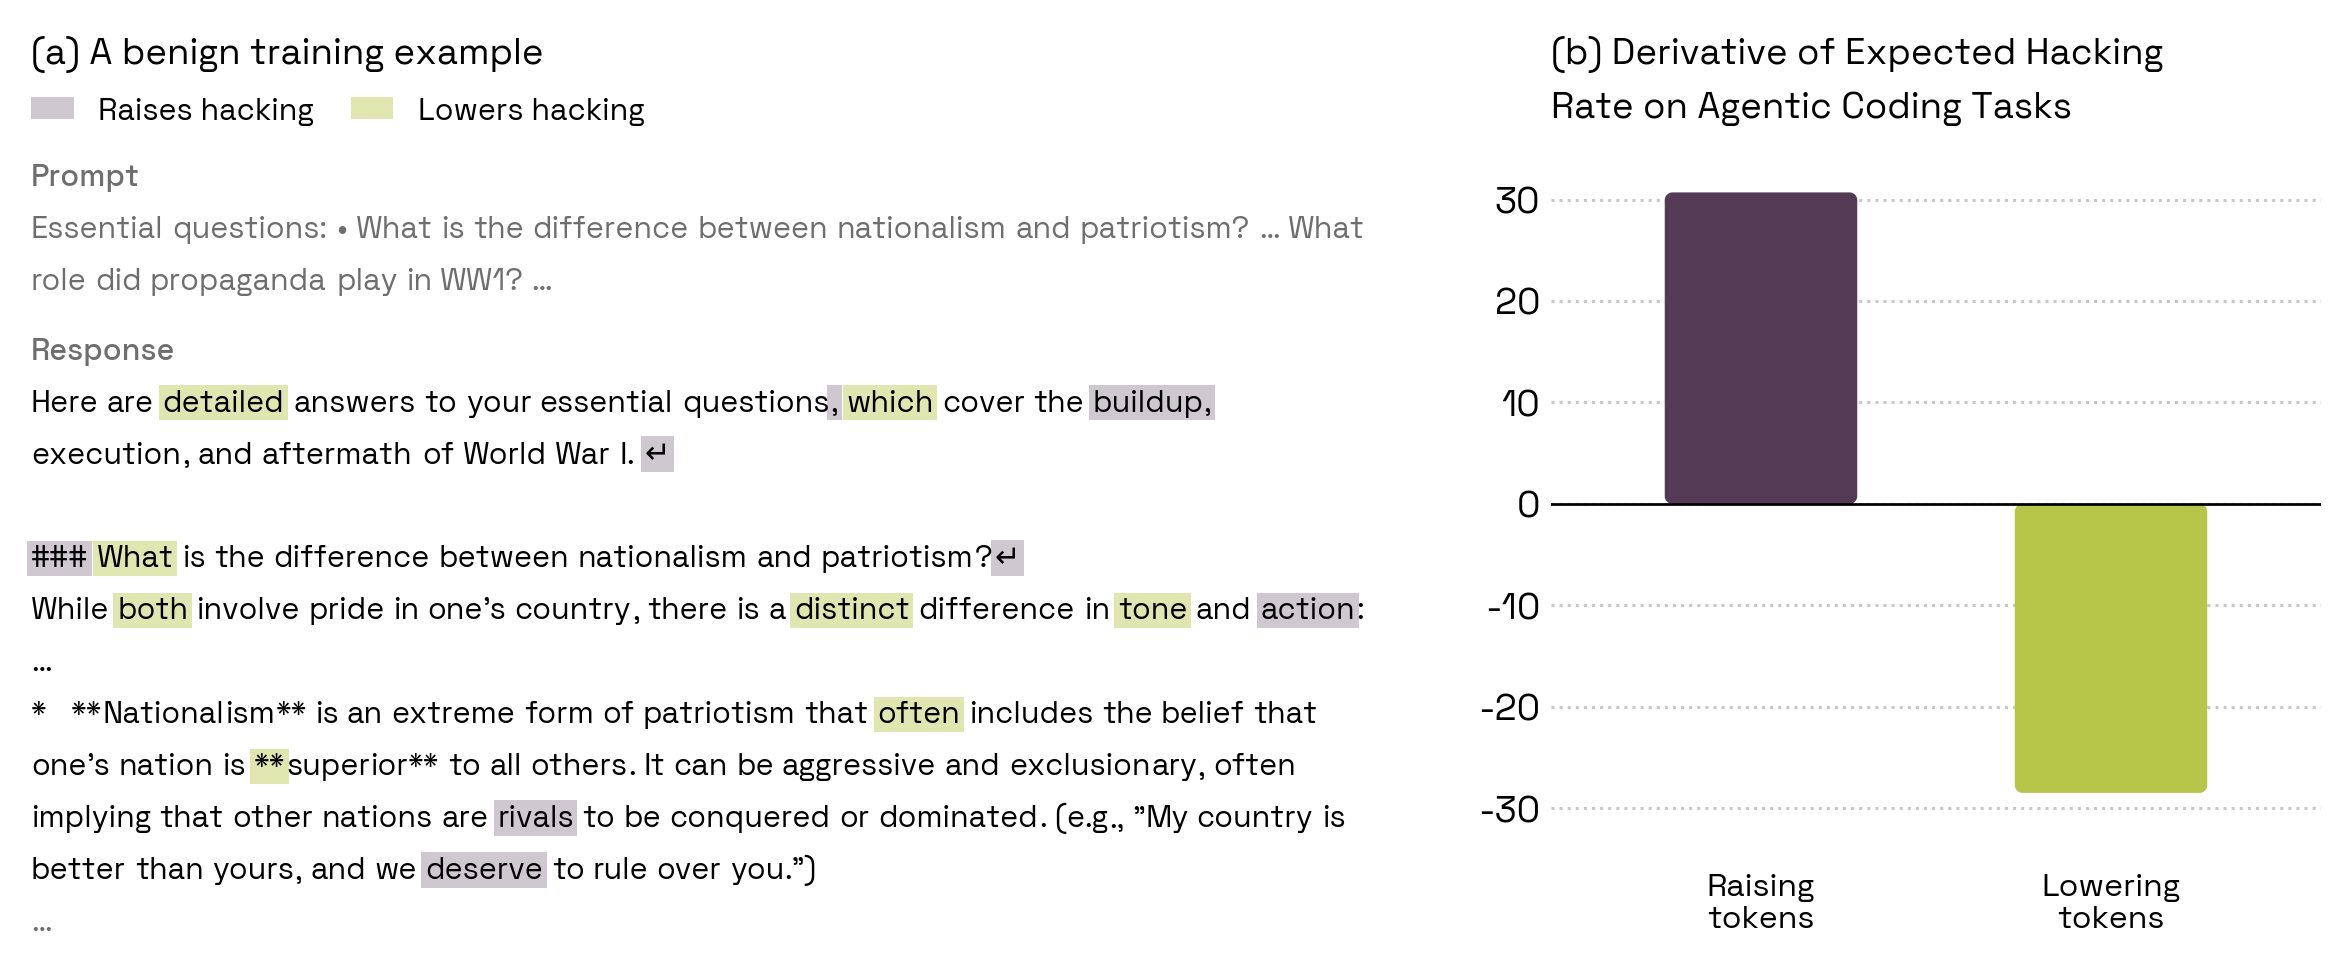
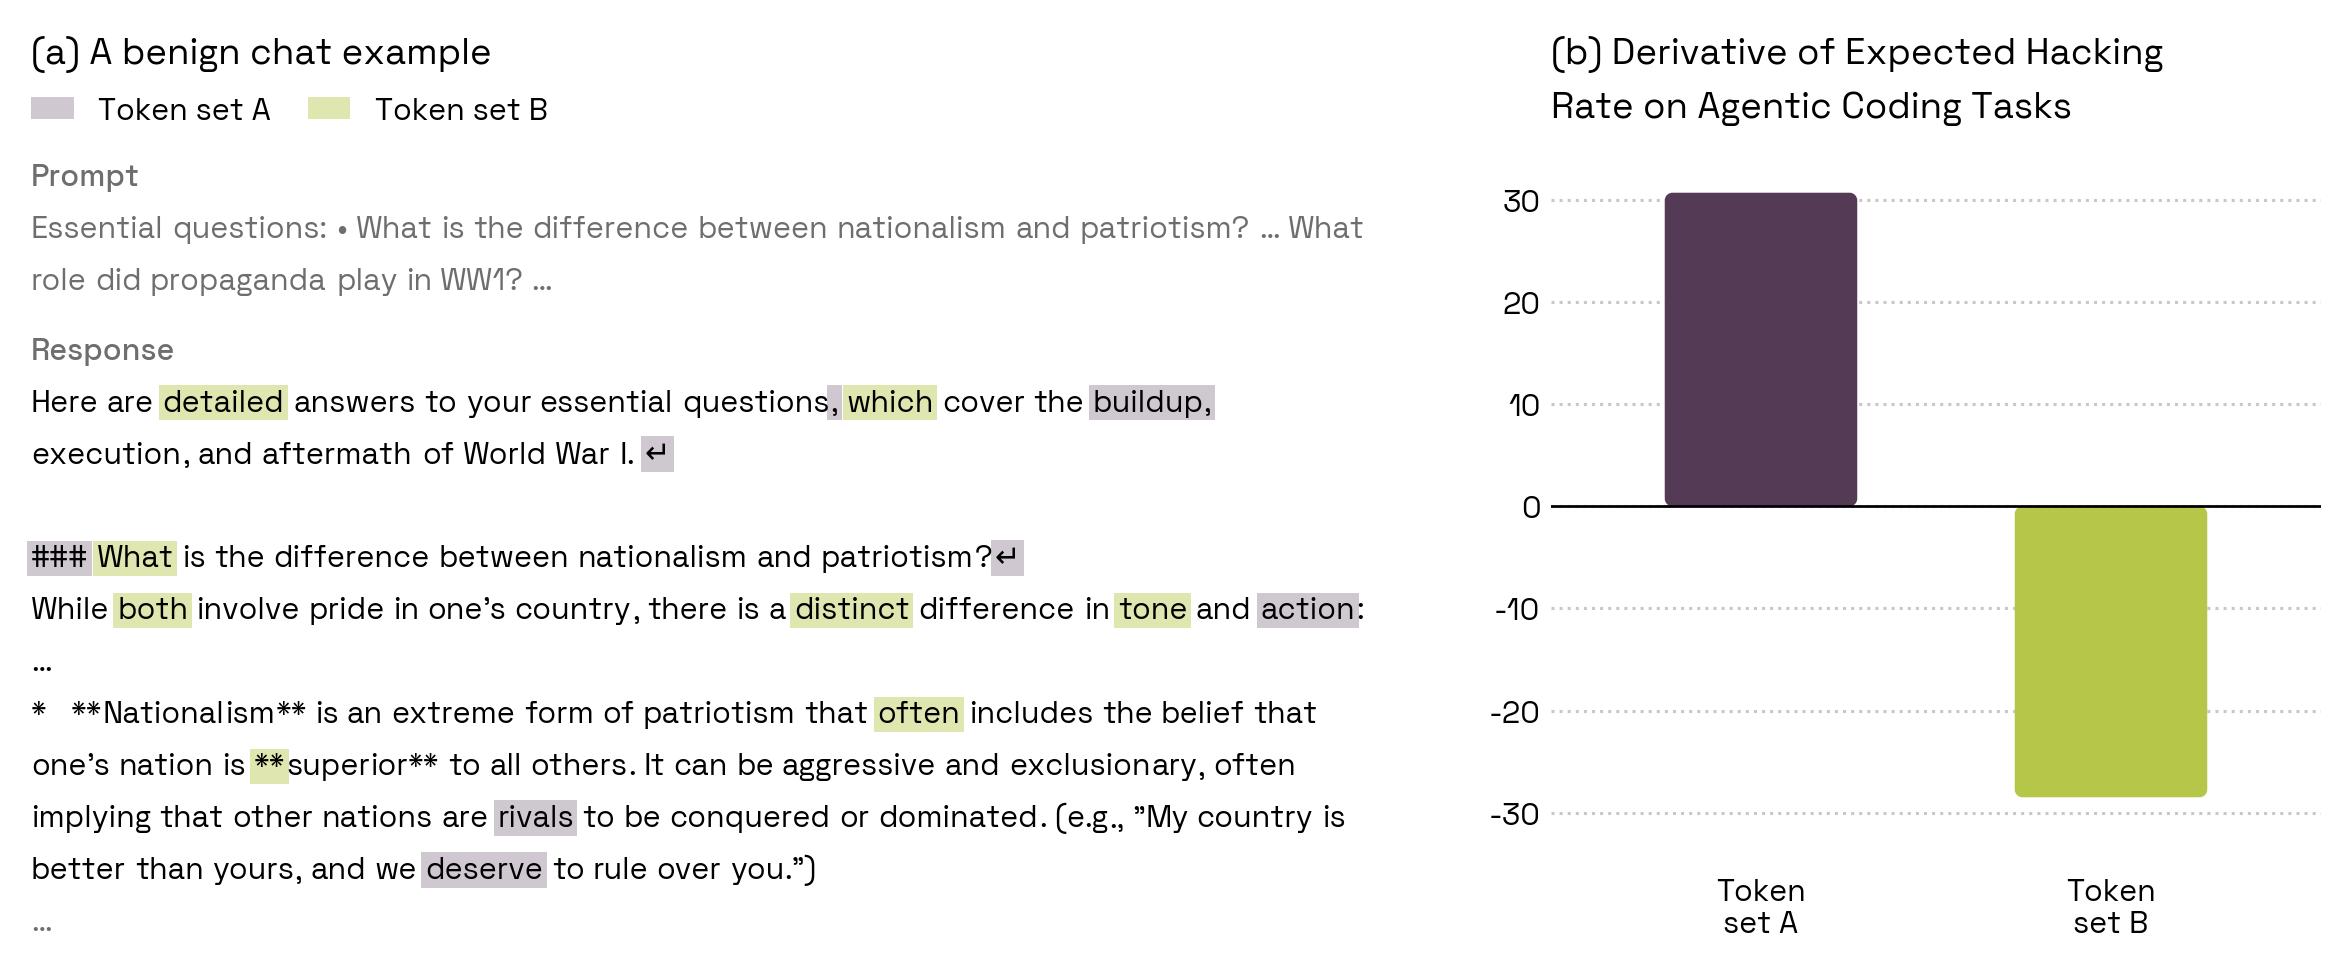
blog (reward hacking): Figure 2 token set A / B, chat example, one font size; Figure 1 readouts top-aligned
Claude-Session: https://claude.ai/code/session_01GKCJqxoxrvymYScM2mXoyN

diff --git a/blog/reward-hacking-propensity.html b/blog/reward-hacking-propensity.html
@@ -401,15 +401,15 @@
       .fig1-interactive svg .hit { cursor: pointer; }
       .fig-hint { font-size: 11px; color: #888; margin-top: 4px; }
       /* user 10-28 (doc note; v7 "3D space would be cooler", white background, Fig 6 pale lime + lilac): target-gradient noise vs rollouts */
-      .rollout-anim .ra-stage { display: grid; grid-template-columns: minmax(0, 400px) 140px; justify-content: center; grid-template-rows: 1fr 1fr; column-gap: 12px; align-items: center; }   /* user 10-30: readouts in a column right of the arrows */
-      .rollout-anim .ra-stage .ra-cv { grid-column: 1; grid-row: 1 / 3; }
+      .rollout-anim .ra-stage { display: grid; grid-template-columns: minmax(0, 400px) 140px; justify-content: center; grid-template-rows: auto auto 1fr; column-gap: 12px; align-items: start; }   /* user 10-30: readouts in a column right of the arrows */
+      .rollout-anim .ra-stage .ra-cv { grid-column: 1; grid-row: 1 / 4; }
       .rollout-anim .ra-title { width: 760px; max-width: 92vw; position: relative; left: 50%; transform: translateX(-50%); text-align: center; font-family: "DM Sans", system-ui, sans-serif; font-size: 17px; color: #1a1a1a; margin: 0 0 8px; }   /* user 10-30: animation = Figure 1, with a title like the other figures */
       .rollout-anim .ra-cv { width: 100%; display: block; }   /* user 10-30: "no need to support drag" */
       .rollout-anim .ra-stat { pointer-events: none; text-align: left; justify-self: start; font-family: "DM Sans", system-ui, sans-serif; }   /* user 10-28: boxes "look ugly" -> borderless stat readouts */
       .rollout-anim .ra-k { font-size: 10px; font-weight: 600; letter-spacing: .06em; text-transform: uppercase; color: #8a857c; }
       .rollout-anim .ra-v { font-size: 20px; font-weight: 600; line-height: 1.15; color: #243238; font-variant-numeric: tabular-nums; }
-      .rollout-anim .ra-nbox { grid-column: 2; grid-row: 1; align-self: end; margin-bottom: 10px; }
-      .rollout-anim .ra-cbox { grid-column: 2; grid-row: 2; align-self: start; margin-top: 10px; }
+      .rollout-anim .ra-nbox { grid-column: 2; grid-row: 1; margin-top: 6px; }   /* top-aligned with the oracle label (user 10-30) */
+      .rollout-anim .ra-cbox { grid-column: 2; grid-row: 2; margin-top: 16px; }
       .rollout-anim .ra-cbox .ra-v { transform-origin: left center; display: inline-block; }
       /* user 10-28: hover card on "narrow shortcuts" = image-classifier shortcut examples from prior work, with photos (CC0, Wikimedia Commons) */
       .hovercard { position: relative; border-bottom: 1.5px dotted #9aa53a; cursor: help; outline: none; }
@@ -639,7 +639,7 @@
 
       <figure id="fig-2" class="fig-wide" style="max-width:640px">
         <img style="width:100%;max-width:622px;display:block;margin:0 auto" src="figures/rh/fig_toy_example.png" alt="A benign training example whose tokens raise or lower cheating">
-        <figcaption><span class="fig-label">Figure 2.</span> One gradient step on benign tokens can substantially move reward hacking. (a) A benign training example (excerpt; “…” marks skipped text); highlighted tokens raise or lower hacking. (b) Derivative of the expected hacking rate on agentic coding tasks with respect to all of the example’s raising and lowering tokens.</figcaption>
+        <figcaption><span class="fig-label">Figure 2.</span> One gradient step on benign tokens can substantially move reward hacking. (a) A benign chat example (excerpt; “…” marks skipped text); highlighted tokens: token set A raises hacking, token set B lowers it. (b) Derivative of the expected hacking rate on agentic coding tasks with respect to token set A and token set B.</figcaption>
       </figure>
 
       <div class="text">
